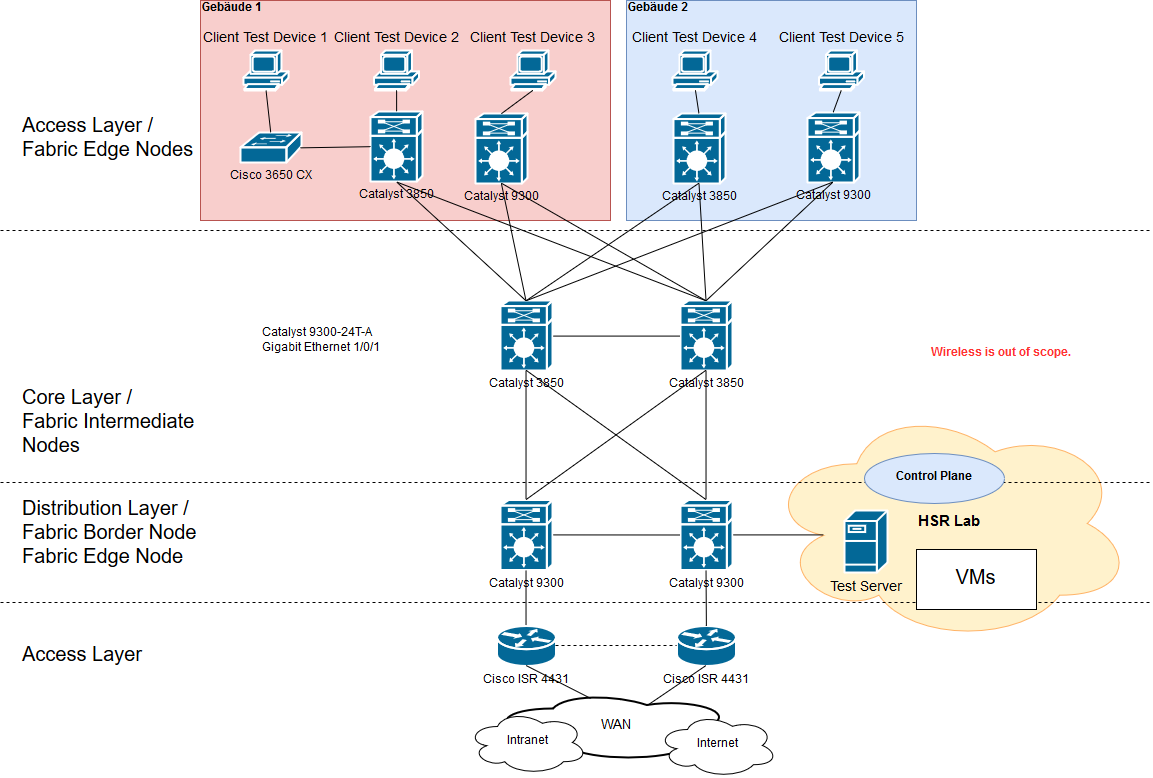
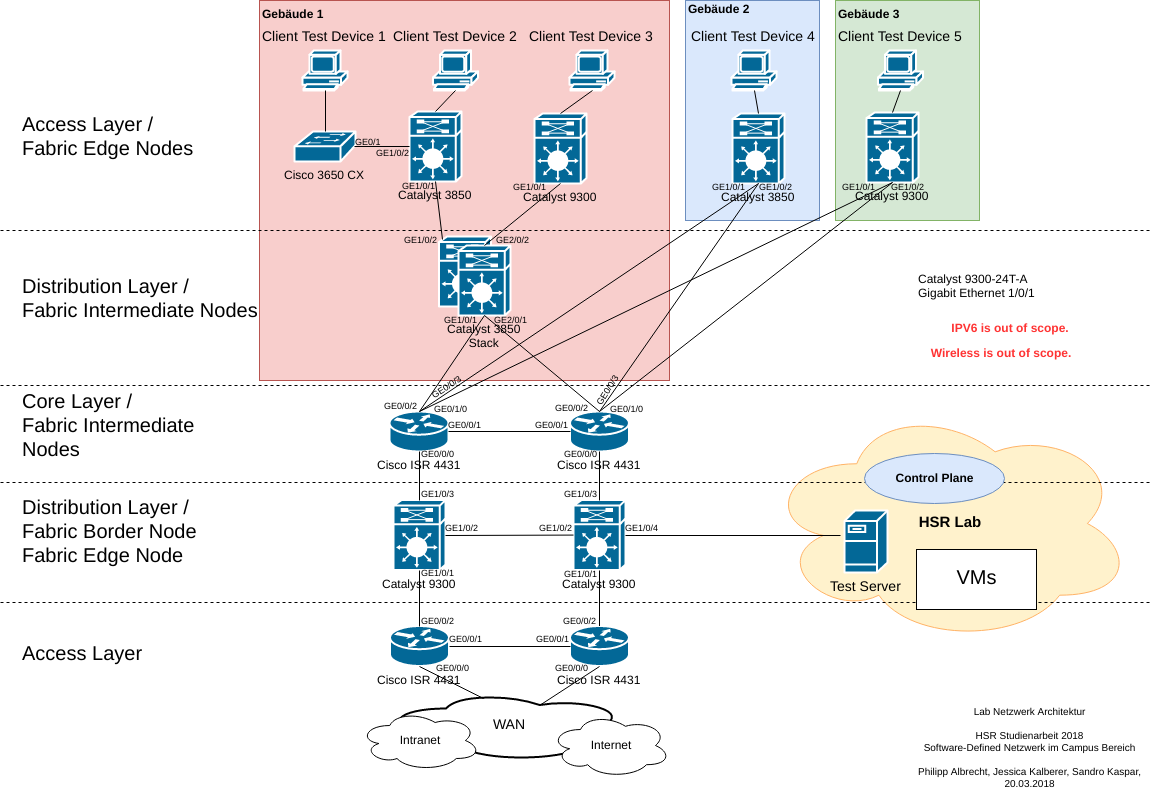
#11 Network Architecture

diff --git a/Documentation/sections/umsetzung.tex b/Documentation/sections/umsetzung.tex
@@ -58,7 +58,9 @@ Hauptunterschiede zwischen der klassischen Netzwerkarchitektur und der "Modernen
 		isr4431-2.access & GE0/0/0 & WAN & - \\
 		\hline
 		isr4431-2.access & GE0/0/1 & isr4431-1.access & GE0/0/1 \\
-		\hline		
+		\hline	
+		isr4431-2.access & GE0/0/2 & c9300-2.dist & GE1/0/1 \\
+		\hline			
 		c9300-1.dist & GE1/0/2 & c9300-2.dist & GE1/0/2  \\
 		\hline
 		c9300-1.dist & GE1/0/3 & isr4431-1.core & GE0/0/0 \\
